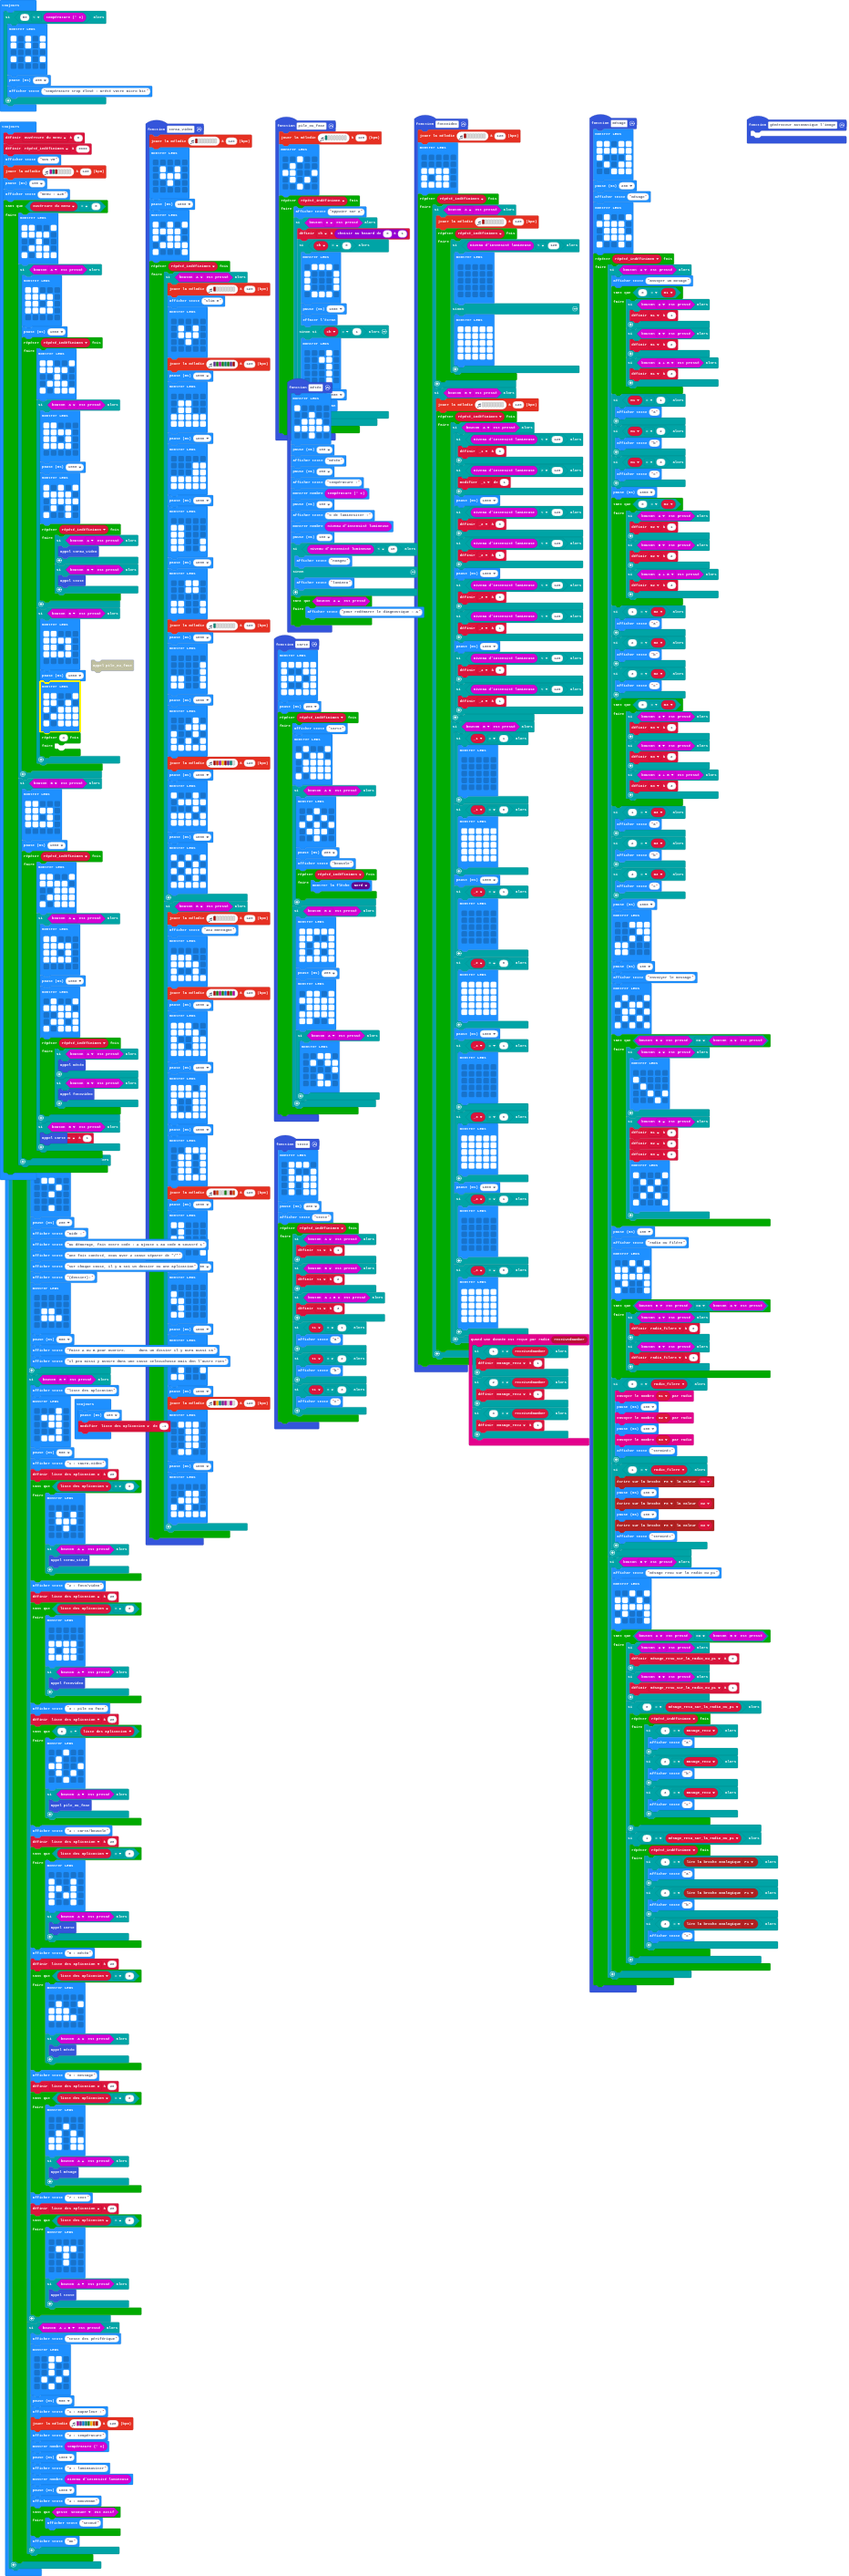
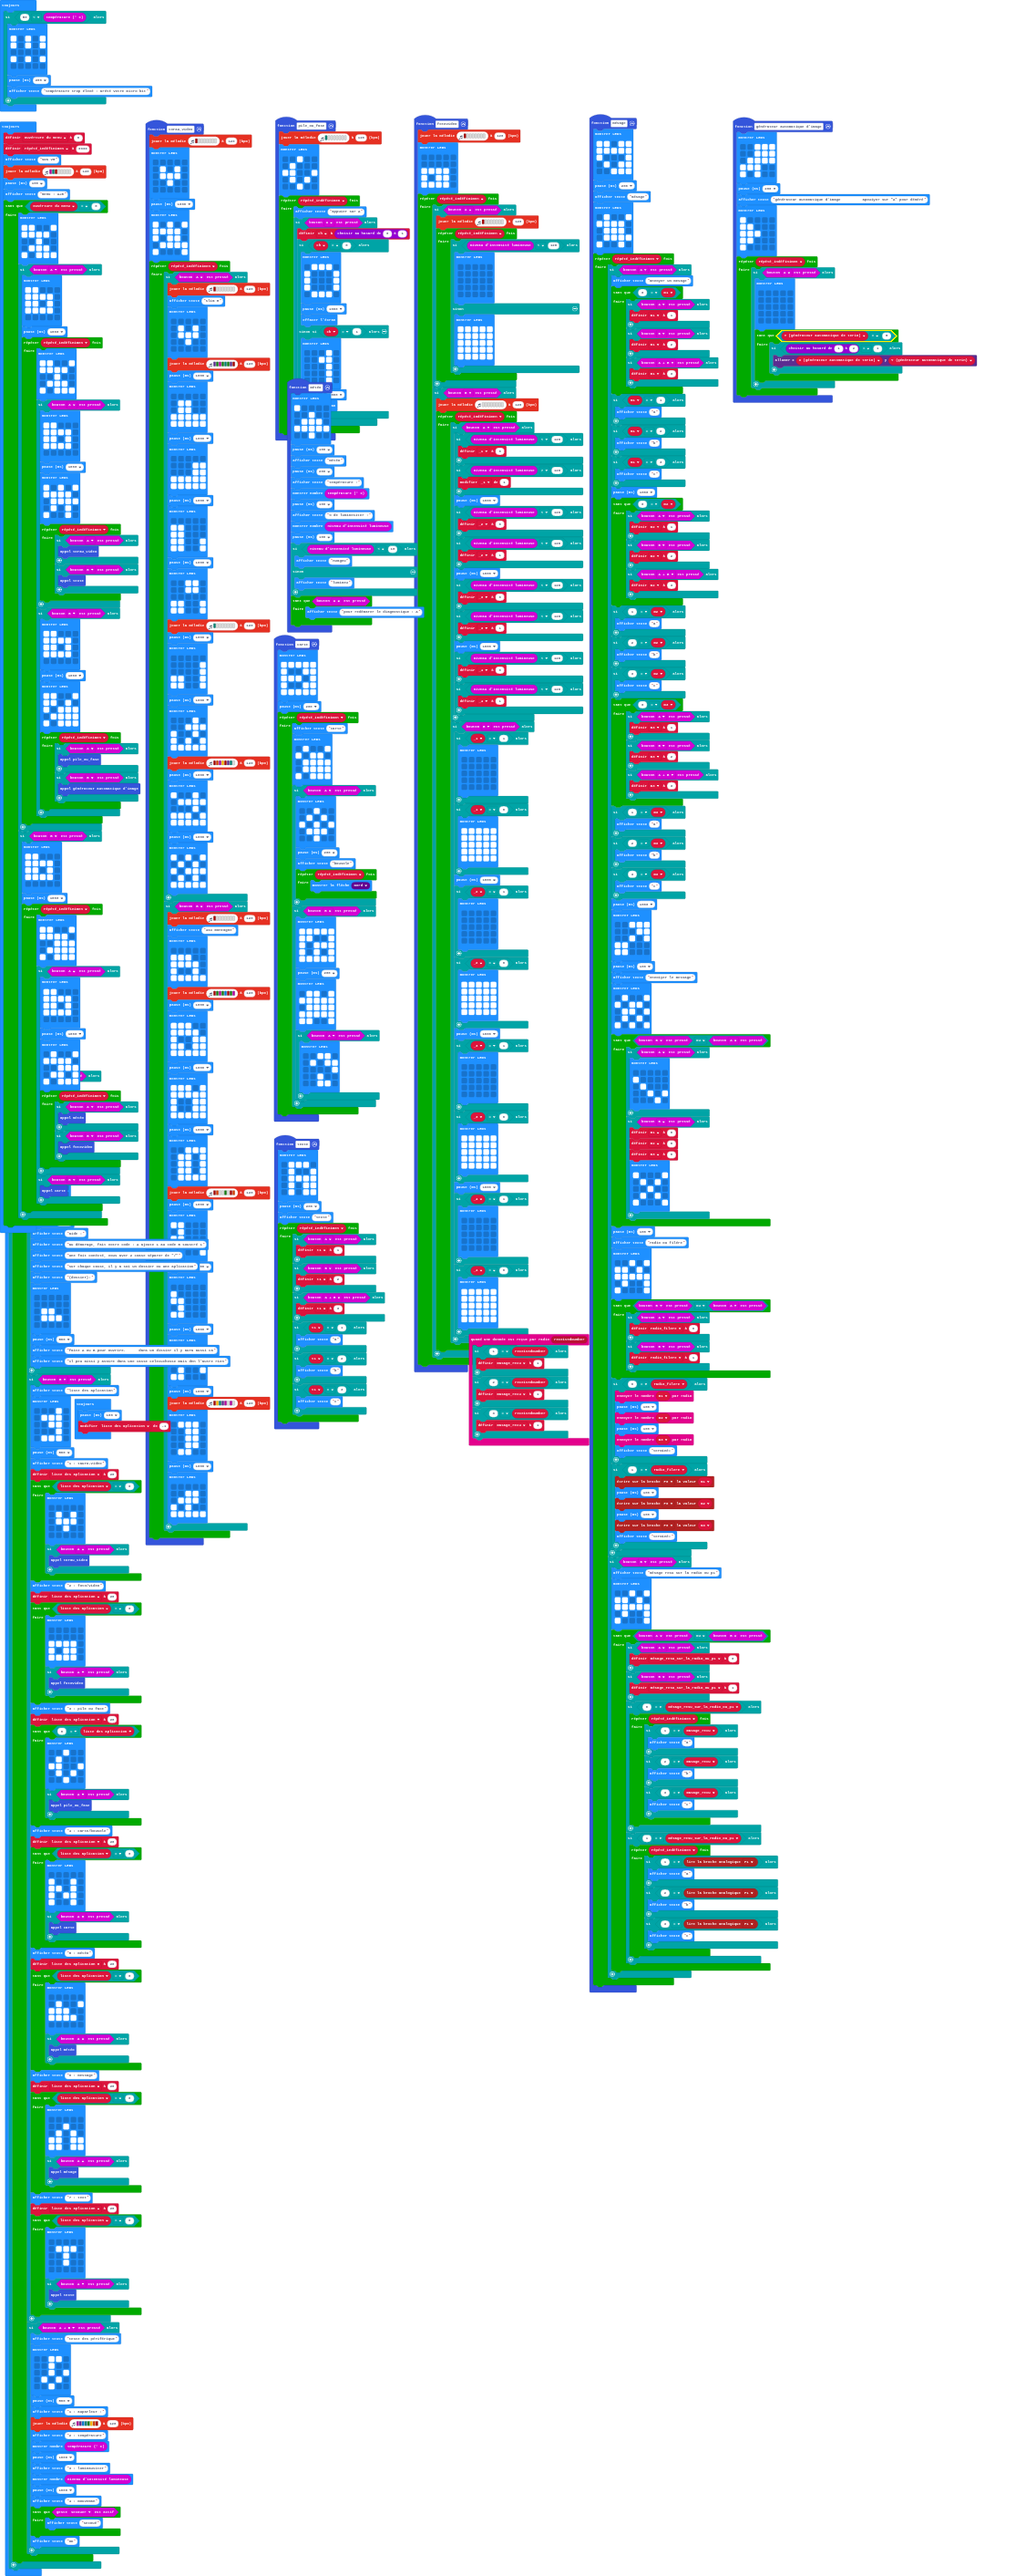
Mise à jour main.blocks, main.ts

diff --git a/main.ts b/main.ts
@@ -524,6 +524,42 @@ function mésage () {
         }
     }
 }
+function générateur_automatique_dimage () {
+    basic.showLeds(`
+        . . # # #
+        . . # # #
+        . # # # #
+        # # # . .
+        # . # . .
+        `)
+    basic.pause(200)
+    basic.showString("générateur automatique d'image          apouiyer sur \"A\" pour déméré")
+    basic.showLeds(`
+        # . . . .
+        # # . . .
+        # # # . .
+        # # . . .
+        # . . . .
+        `)
+    for (let index = 0; index < répété_indéfinimen; index++) {
+        if (input.buttonIsPressed(Button.A)) {
+            let Y_générateur_automatique_de_terin = 0
+            basic.showLeds(`
+                . . . . .
+                . . . . .
+                . . . . .
+                . . . . .
+                . . . . .
+                `)
+            while (Y_générateur_automatique_de_terin == 5) {
+                if (randint(1, 2) == 1) {
+                    let X_générateur_automatique_de_terin = 0
+                    led.plot(X_générateur_automatique_de_terin, Y_générateur_automatique_de_terin)
+                }
+            }
+        }
+    }
+}
 function fotovideo () {
     music.playMelody("C5 - - - - - - - ", 120)
     basic.showLeds(`
@@ -669,9 +705,6 @@ function fotovideo () {
         }
     }
 }
-function générateur_automatique_limage () {
-	
-}
 function texte () {
     basic.showLeds(`
         . # # # .
@@ -789,8 +822,13 @@ basic.forever(function () {
                         . # # # #
                         # . # # #
                         `)
-                    for (let index = 0; index < 4; index++) {
-                    	
+                    for (let index = 0; index < répété_indéfinimen; index++) {
+                        if (input.buttonIsPressed(Button.A)) {
+                            pile_ou_fase()
+                        }
+                        if (input.buttonIsPressed(Button.B)) {
+                            générateur_automatique_dimage()
+                        }
                     }
                 }
             }
